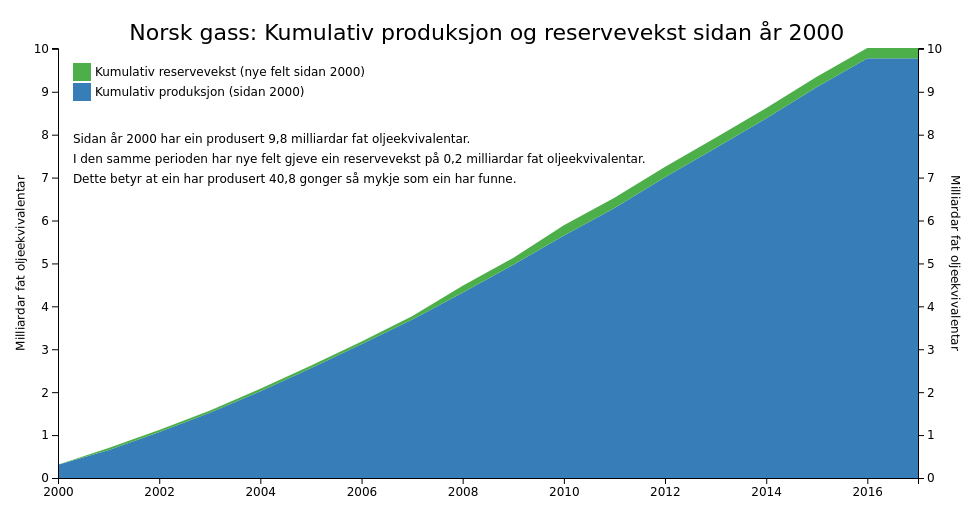
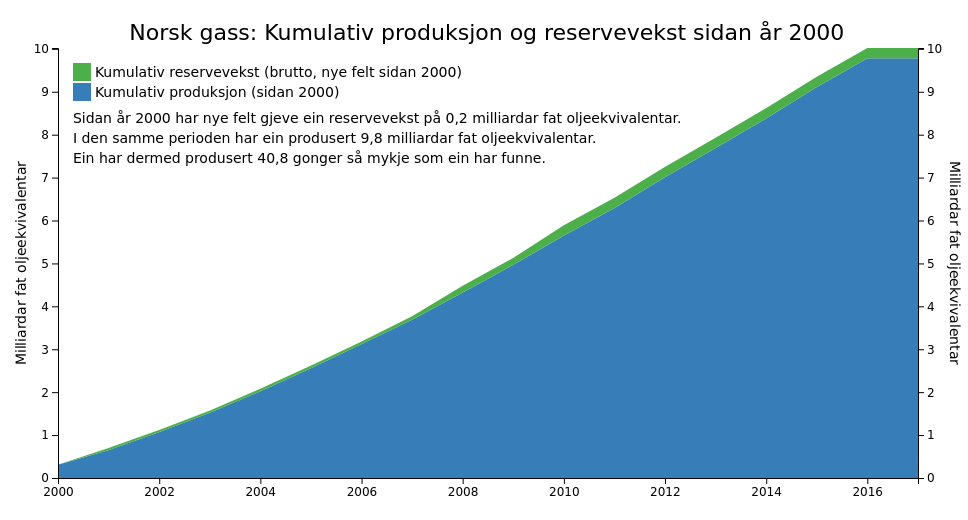
Add some diagrams #52

diff --git a/vis/cumulative2.js b/vis/cumulative2.js
@@ -84,6 +84,7 @@ function show_resource(config) {
                 .attr("x", -height / 2)
                 .attr("dy", "0.71em")
                 .style("text-anchor", "middle")
+                .classed('biggertext', true)
                 .text(config.unit);
 
             g.append("g")
@@ -97,6 +98,7 @@ function show_resource(config) {
                 .attr("y", -margin.right + 8)
                 .attr("dy", "0.71em")
                 .style("text-anchor", "middle")
+                .classed('biggertext', true)
                 .text(config.unit);
 
             g.append("g")
@@ -107,19 +109,12 @@ function show_resource(config) {
                 .classed("heading", true)
                 .text("Norsk " + config.title + ": Kumulativ produksjon og reservevekst sidan år " + data[0].date.getFullYear())
 
-            // g.append('text')
-            //     .attr("transform", "translate(15,7)")
-            //     .attr("dy", "0.35em")
-            //     .style('font-weight', 'bold')
-            //     .text("woohoo")
-
             var legend = g.append("g")
                 .attr("transform", "translate(15,15)")
                 .selectAll('g')
                 .data(keys.slice(0).reverse())
                 .enter().append('g')
                 .attr("transform", function (d, i) { return "translate(0," + (i * 20) + ")"; })
-                .style("font", "10px sans-serif");
 
             legend
                 .append('rect')
@@ -137,37 +132,42 @@ function show_resource(config) {
                 .attr("x", 18 + 4)
                 .attr('y', 9)
                 .attr("dy", "0.35em")
-                .text(function (d) { 
-                if (d.indexOf("reserve") != -1) {
-                    return "Kumulativ reservevekst (nye felt sidan " + data[0].date.getFullYear() + ")";
-                } else {
-                    return "Kumulativ produksjon (sidan " + data[0].date.getFullYear() + ")";
-                }
-            });
+                .classed('biggertext', true)
+                .text(function (d) {
+                    if (d.indexOf("reserve") != -1) {
+                        return "Kumulativ reservevekst (brutto, nye felt sidan " + data[0].date.getFullYear() + ")";
+                    } else {
+                        return "Kumulativ produksjon (sidan " + data[0].date.getFullYear() + ")";
+                    }
+                });
 
-            var format = function(x) {
+            var format = function (x) {
                 return x.toFixed(1).replace(".", ",");
             };
 
             var lines =
-            ["Sidan år {år} har ein produsert {produsert} {unit}."
-            .replace("{unit}", config.unit.toLowerCase())
-            .replace("{år}", data[0].date.getFullYear())
-            .replace("{produsert}", format(endData[config.keys[0]]))
-            ,
-            "I den samme perioden har nye felt gjeve ein reservevekst på {reservar} {unit}."
-            .replace("{unit}", config.unit.toLowerCase())
-            .replace("{reservar}", format(endData[config.keys[1]])),
-            "Dette betyr at ein har produsert {x} gonger så mykje som ein har funne."
-            .replace("{x}", format(endData[config.keys[0]] / endData[config.keys[1]]))
-            ];
+                [
+                    "Sidan år {år} har nye felt gjeve ein reservevekst på {reservar} {unit}."
+                        .replace("{unit}", config.unit.toLowerCase())
+                        .replace("{år}", data[0].date.getFullYear())
+                        .replace("{reservar}", format(endData[config.keys[1]])),
+                    "I den samme perioden har ein produsert {produsert} {unit}."
+                        .replace("{unit}", config.unit.toLowerCase())
+                        .replace("{år}", data[0].date.getFullYear())
+                        .replace("{produsert}", format(endData[config.keys[0]]))
+                    ,
+
+                    "Ein har dermed produsert {x} gonger så mykje som ein har funne."
+                        .replace("{x}", format(endData[config.keys[0]] / endData[config.keys[1]]))
+                ];
             g.append("g")
-                .attr("transform", "translate(15,95)")
+                .attr("transform", "translate(15,75)")
                 .selectAll('g')
                 .data(lines)
                 .enter().append('g')
                 .attr("transform", function (d, i) { return "translate(0," + (i * 20) + ")"; })
                 .append('text')
+                .classed('biggertext', true)
                 .text(Object)
         });
 }

diff --git a/vis/style.css b/vis/style.css
@@ -6,6 +6,10 @@ text {
     font: 12px sans-serif;
 }
 
+.biggertext {
+    font: 14px sans-serif;
+}
+
 .heading {
     font: 22px sans-serif;
 }

diff --git a/overview.py b/overview.py
@@ -185,5 +185,11 @@ if __name__=="__main__":
     print("\n## Petroleum")
     oversikt_etter_region(prefixFilename='oe', resource='petroleum', remainingField='remainingOE', unit='oljeekvivalentar')
 
-    #print("")
-    #print("# Oversikt over norsk sokkel etter region\n")
+    print("")
+    print("# Oversikt over kumulativ produksjon vs nye felt sidan år 2000\n")
+    print("Sidan årtusenskiftet har produksjonen på norsk sokkel vore fleire gonger større enn funna som er gjort.\n")
+    print("![olje](img/cumulative_oil_production_vs_reserve_growth_since_2000.png)\n")
+    print("![gass](img/cumulative_gas_production_vs_reserve_growth_since_2000.png)\n")
+    print("![petroleum](img/cumulative_oe_production_vs_reserve_growth_since_2000.png)\n")
+    print("")
+

diff --git a/screens_from_page.py b/screens_from_page.py
@@ -36,7 +36,7 @@ if __name__=="__main__":
   for (k, v) in sorted(js.items()):
     mode = k
     img = './img/' + v['screenshot']
-    cmd = """curl -H "Content-Type: application/json" -d '{"url":"%s:8080/bundle?mode=%s", "force": true, "width": 10, "height": 10}' http://%s:8891/ -o %s""" % (self_ip, mode, docker_ip, img)
+    cmd = """curl -s -H "Content-Type: application/json" -d '{"url":"%s:8080/bundle?mode=%s", "force": true, "width": 10, "height": 10}' http://%s:8891/ -o %s""" % (self_ip, mode, docker_ip, img)
     print(cmd.encode('utf8'))
     def screenshot(retries=0):
       ret = os.system(cmd.encode('utf8'))

diff --git a/README.md b/README.md
@@ -141,3 +141,15 @@ Norskehavet har 19% (3,7 milliardar fat oljeekvivalentar) av petroleumreservane.
 
 Barentshavet har 8% (1,6 milliardar fat oljeekvivalentar) av petroleumreservane.
 
+
+# Oversikt over kumulativ produksjon vs nye felt sidan år 2000
+
+Sidan årtusenskiftet har produksjonen på norsk sokkel vore fleire gonger større enn funna som er gjort.
+
+![olje](img/cumulative_oil_production_vs_reserve_growth_since_2000.png)
+
+![gass](img/cumulative_gas_production_vs_reserve_growth_since_2000.png)
+
+![petroleum](img/cumulative_oe_production_vs_reserve_growth_since_2000.png)
+
+
